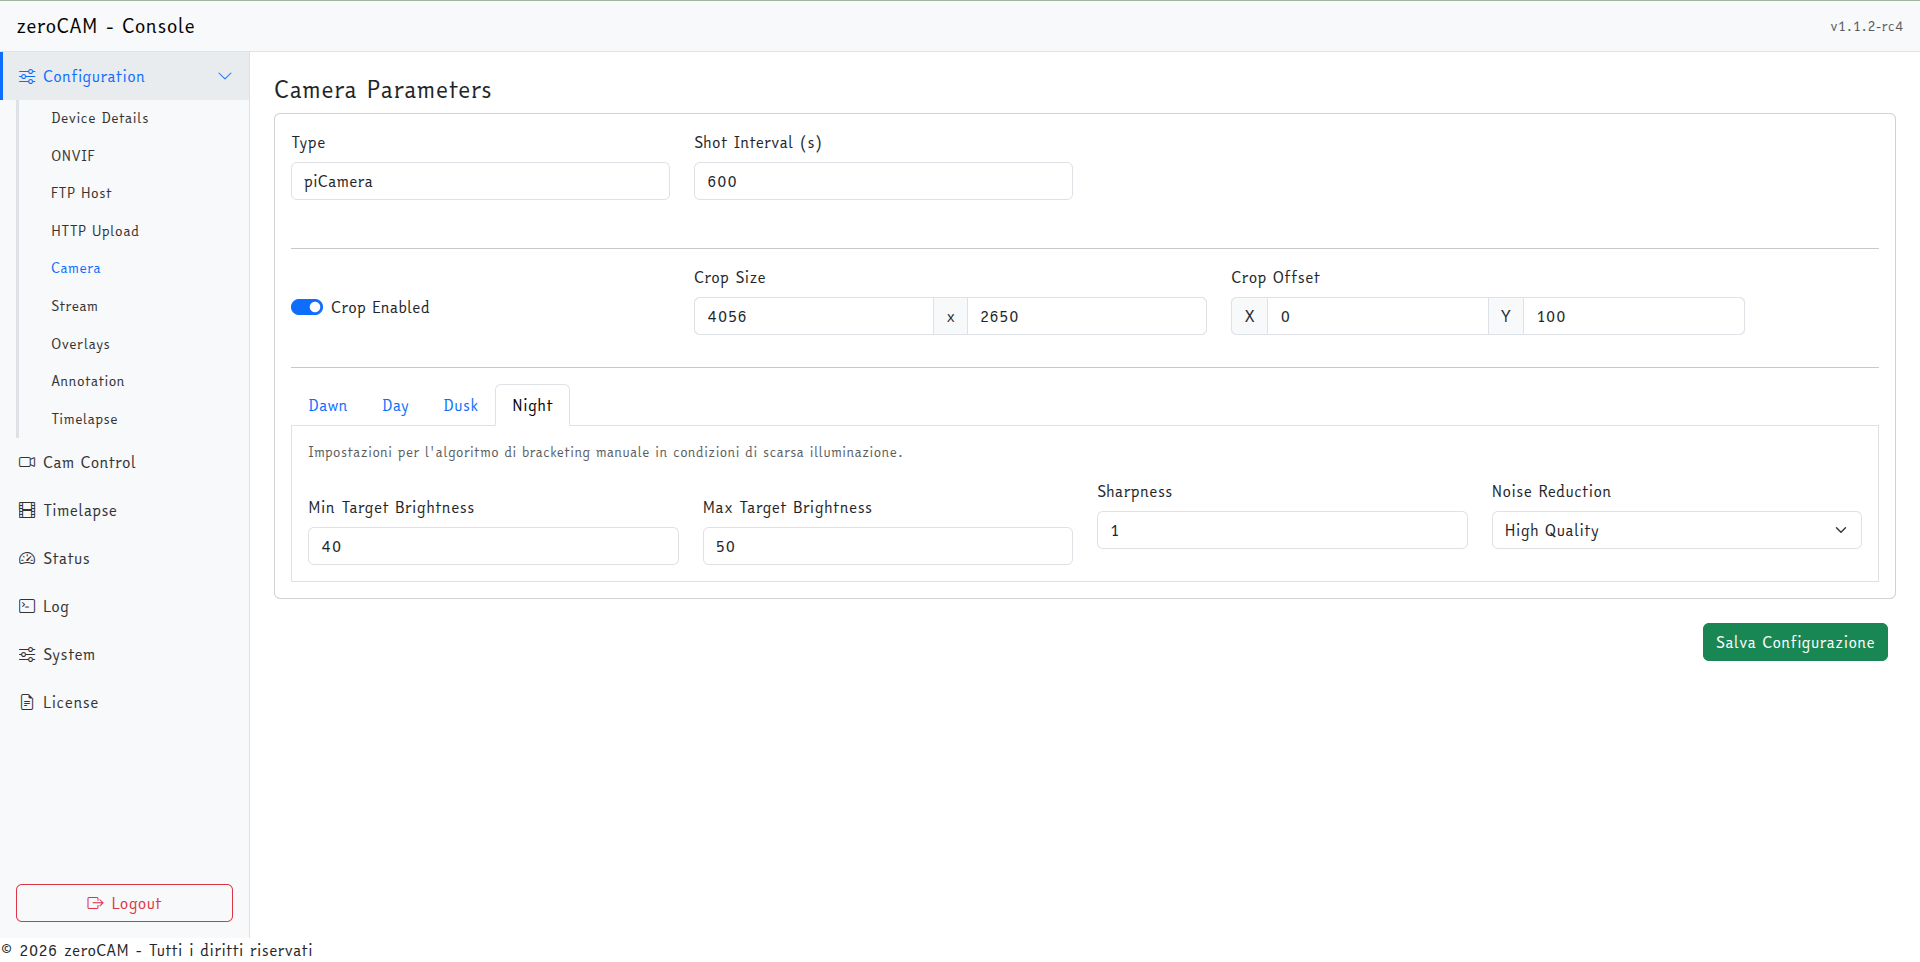
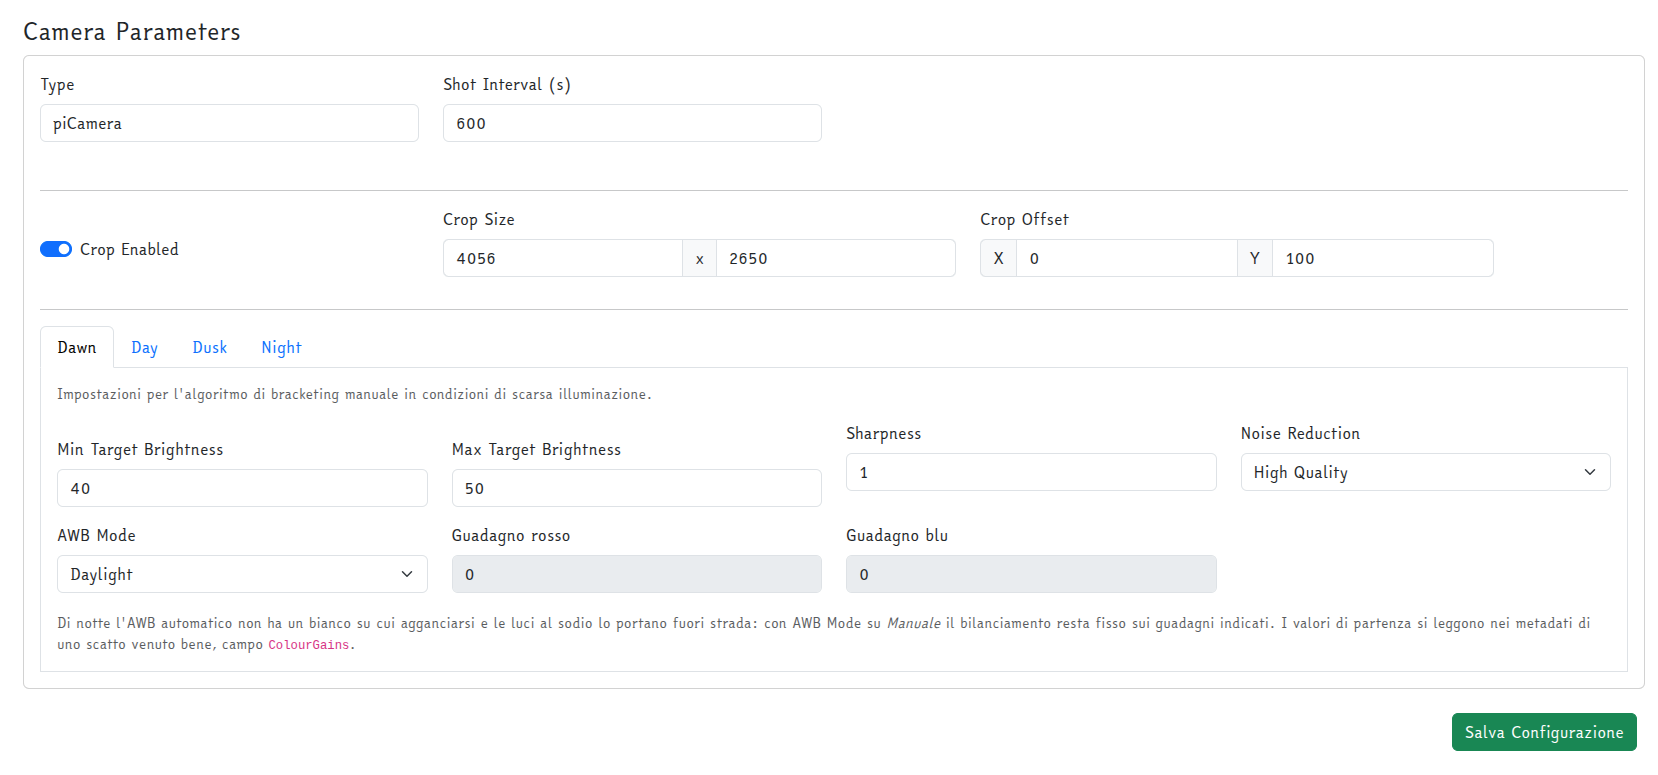
Refresh the interface screenshots for the pages that changed
Camera, Stream and Timelapse gained fields the old captures predate,
and Overlays and Assets had no picture at all.

Two edits on the incoming files: the browser zoom bubble sat over the
header on two of them, and the Stream capture showed the Client ID in
clear along with an additional RTMP destination whose URL ends in a
live stream key - anything holding that can publish to the channel.
Both are covered.

diff --git a/doc/07-annotazione-loghi.md b/doc/07-annotazione-loghi.md
@@ -42,6 +42,8 @@ Il carattere usato è `static/css/fonts/Arial.ttf`, incluso nell'applicazione.
 | Scale | Percentuale di ridimensionamento |
 | Opacity | Opacità in percentuale |
 
+![La pagina Overlays: due loghi, entrambi presi dagli assets, con l'anteprima accanto alla tendina.](img/ui-config-overlays.png){ width=100% }
+
 L'indirizzo può essere un URL http, come è sempre stato, oppure un file caricato in **Configuration → Assets**: in quel caso, invece di scriverlo a mano, si sceglie dal menu *...oppure un logo caricato*, che compila il campo URL con un riferimento del tipo `asset:logo/nome.png` e mostra l'anteprima. Un logo caricato è preferibile a uno remoto: non dipende da un sito che può cambiare o sparire, e funziona anche con la webcam senza accesso a internet in uscita.
 
 I loghi vengono scaricati e tenuti in memoria, e riscaricati a ogni salvataggio della configurazione: sostituendo un file all'origine, o fra gli assets, basta salvare per farlo riprendere: non serve riavviare.
@@ -79,6 +81,8 @@ Il caricamento chiede la categoria e il file. Sono ammessi:
 Il limite per file è di 32 MB. Il nome viene ripulito da accenti, spazi e caratteri speciali, perché finisce in una riga di comando di ffmpeg: *Brano Estivo (2026).mp3* diventa `Brano-Estivo-2026-.mp3`.
 
 L'elenco mostra dimensione e anteprima — un lettore per l'audio, la miniatura per le immagini — e permette di eliminare. Il filtro in alto restringe a una sola categoria.
+
+![La pagina Assets: caricamento in alto, elenco del materiale con anteprima ed eliminazione sotto.](img/ui-config-assets.png){ width=100% }
 
 Nelle altre pagine gli assets non si scrivono a mano: compaiono nelle tendine *Audio di sottofondo* (Stream), *Brano di sottofondo* (Timelapse) e *...oppure un logo caricato* (Overlays). In configurazione vengono salvati come `asset:categoria/nome`, un riferimento indipendente dal percorso di installazione: un backup della configurazione ripristinato su un altro Raspberry continua a puntare al file giusto, **purché quel file sia stato ricaricato**. Il backup della configurazione contiene le impostazioni, non i file degli assets: quelli vanno copiati a parte, o ricaricati dall'interfaccia.
 

diff --git a/doc/09-streaming.md b/doc/09-streaming.md
@@ -22,7 +22,7 @@ Lo streaming si ferma a ogni scatto e riparte subito dopo: la camera non può se
 | Audio di sottofondo | Brano ripetuto in loop al posto del silenzio |
 | Volume | Attenuazione del brano, in percentuale |
 
-![La pagina Stream: chiave, risoluzione, destinazioni aggiuntive, overlay e le impostazioni della diretta automatica.](img/ui-config-stream.png){ width=100% }
+![La pagina Stream: chiave, risoluzione, destinazioni aggiuntive, overlay, audio e le impostazioni della diretta automatica. I riquadri neri coprono la destinazione aggiuntiva e il Client ID, che sono dati del singolo impianto.](img/ui-config-stream.png){ width=100% }
 
 Nelle schede per fase del giorno si impostano frequenza dei fotogrammi (`framerate`), guadagno, bilanciamento del bianco, riduzione del rumore e nitidezza: di notte conviene un framerate basso (4–5) e un guadagno alto, di giorno il contrario.
 

diff --git a/doc/05-cattura-immagini.md b/doc/05-cattura-immagini.md
@@ -24,7 +24,7 @@ Uno scatto può essere avviato a mano da **Cam Control → Take Photo**: il cicl
 
 **Configuration → Camera** ha una scheda per ciascuna fase del giorno, più le impostazioni generali e il ritaglio.
 
-![La pagina Camera: impostazioni generali, ritaglio e la scheda della fase notturna con le soglie di luminosità.](img/ui-config-camera.png){ width=100% }
+![La pagina Camera: impostazioni generali, ritaglio e la scheda di una fase, con le soglie di luminosità e il bilanciamento del bianco. I campi dei guadagni sono in grigio perché la modalità AWB non è *Manuale*.](img/ui-config-camera.png){ width=100% }
 
 | Impostazione in pagina | Significato |
 |---|---|
